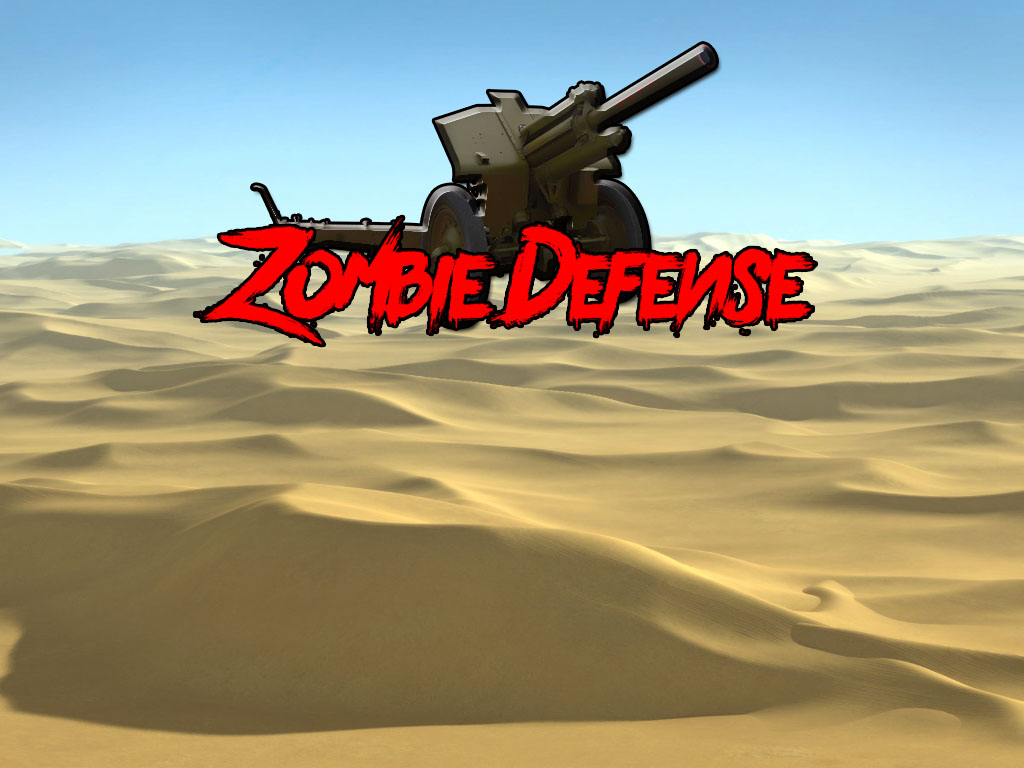
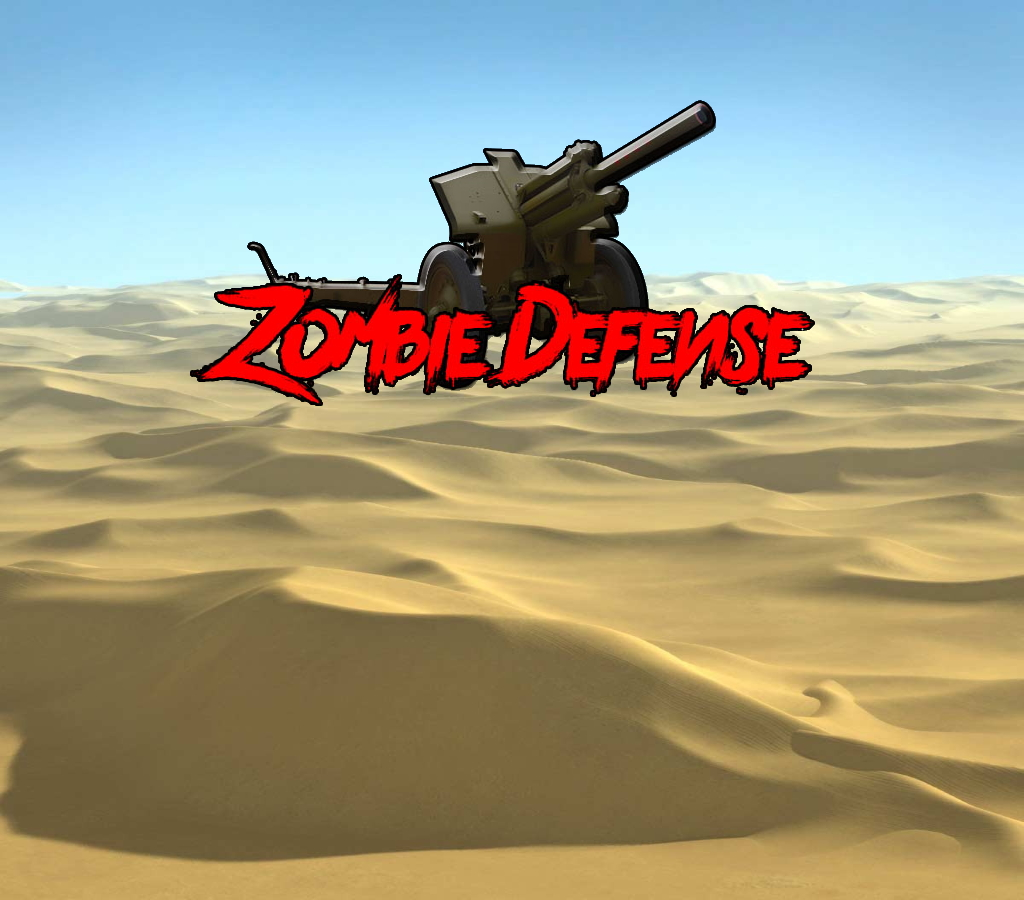
Resolution change

Changed region(s): [[0.1875, 0.0625, 0.8125, 0.4688]]

diff --git a/ZombieDefense.py b/ZombieDefense.py
@@ -1,6 +1,6 @@
 import pygame, random, threading, time
 pygame.init()
-width = 1600    #1024
+width = 1024    #1024
 height = 900    #768
 
 screen = pygame.display.set_mode([width, height])
@@ -13,7 +13,7 @@ musicBG = pygame.mixer.music.load("musicBG.mp3")
 
 playImg = pygame.image.load("playButtonRed.png")
 playX = screen.get_width() / 2 - playImg.get_width() / 2
-playY = screen.get_height() / 2
+playY = screen.get_height() / 2 + 50
 
 font = pygame.font.SysFont("monospace", 24, bold=True, italic=False)
 scoreFont = pygame.font.SysFont("monospace", 48, bold=True, italic=False)
